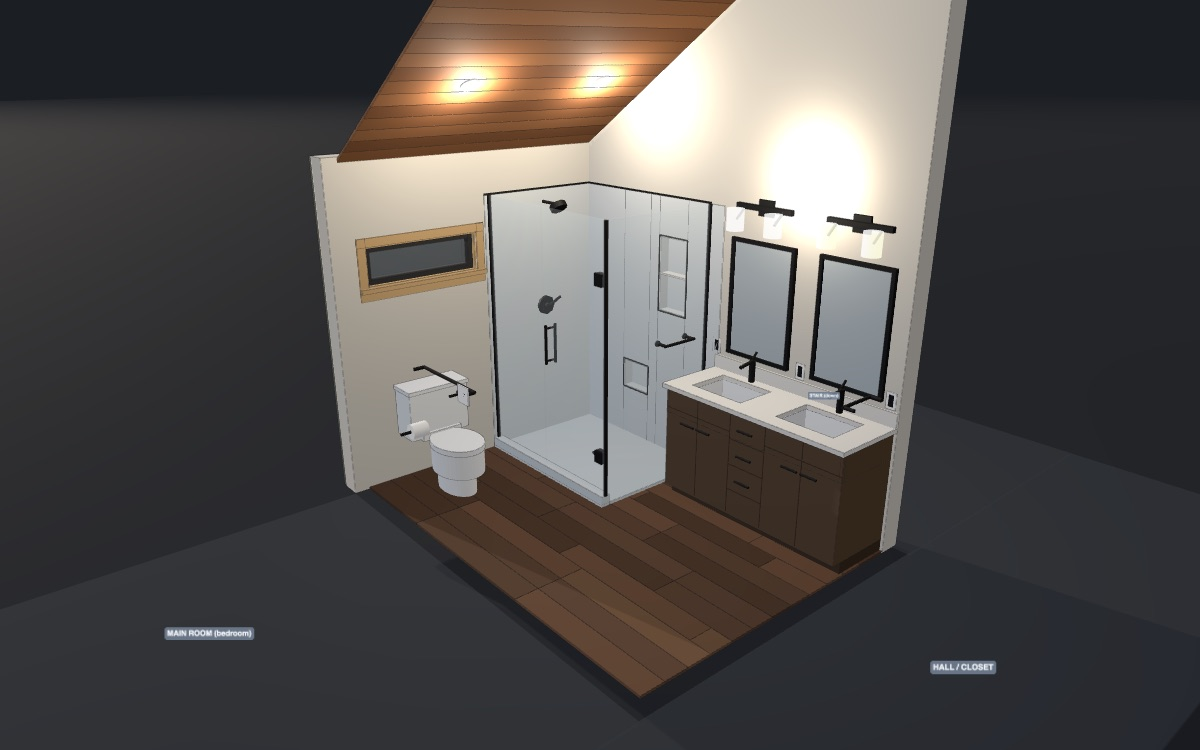
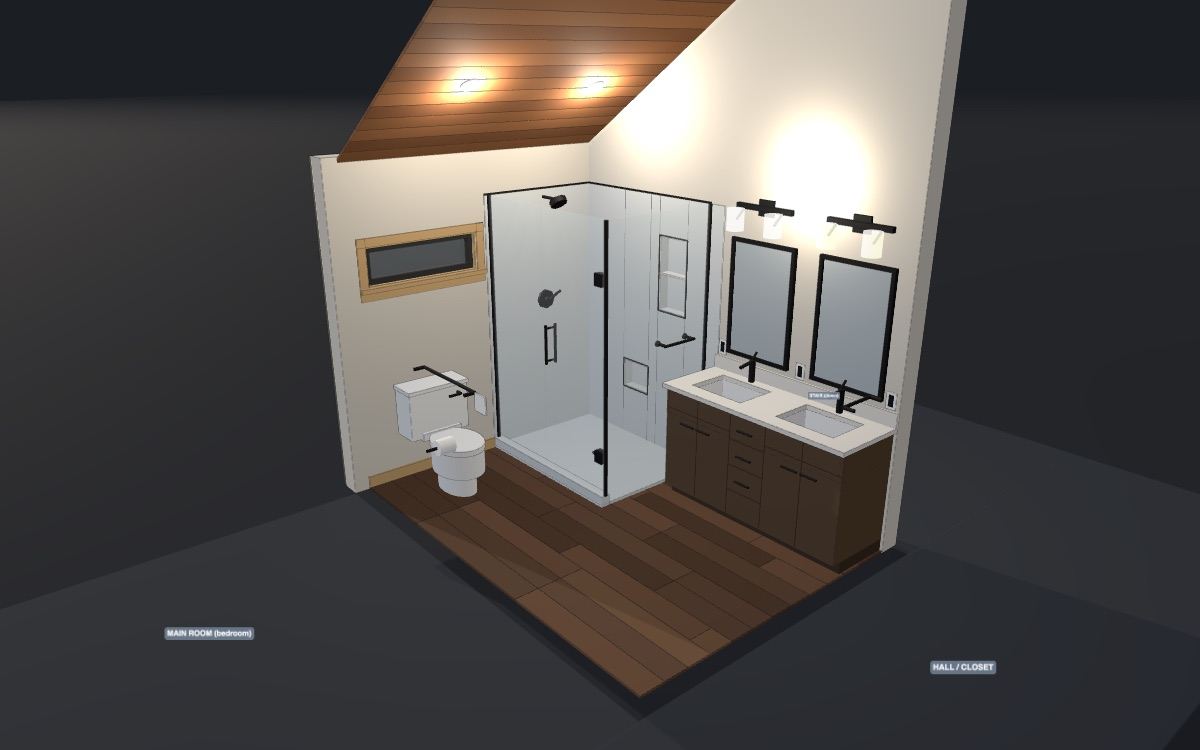
fix: shower tile back to 7'-0" in both baths with the 80" arm; main bath option 1 after the owner's design review

diff --git a/main-bath-option-1.html b/main-bath-option-1.html
@@ -61,7 +61,7 @@
   <a class="panel" id="home" href="https://tredfield.github.io/138-tahoma-cabin/" title="Back to the list of drawings">&larr; All drawings</a>
   <div class="panel" id="header">
     <h1>Main bath &mdash; Option 1: glass shower, north-wall plumbing</h1>
-    <div class="sub">Valve wall removed; the shower takes a 41 1/2" x 55 1/2" strip behind frameless glass: <b>39 5/8" tile to glass, 38 1/8" of flat floor inside the 3" curb</b>, 54 7/8" long, 2,092 sq in, the curb face 1" off window F's alder casing (owner's painted reveal, 2026-09-13). Moen UT3312 head and valve on the west wall, in the exterior 2x6 with freeze protection (owner decision, no chase); <b>valve 48" and arm 81 1/2" above the subfloor = 46 1/2" and 80" above the shower floor, tile to 7'-6", glass to 7'-0" &mdash; the same heights as the guest bath</b> (owner, 2026-09-13 review; the arm settled at 80" that evening &mdash; the owners are 5'6", guests under 6'4"). Shaving foot rest (centre bay) and shampoo niche (bay by the door) in the stair wall, a 5" cleaning slot to the vanity end, entry door on the south glass hinged at the corner post. Toilet CL 3" south of window F's CL for shower-door clearance (owner 2026-09-13, kept at the review); its drain stays in M01's joist bay. Two Kohler Essential mirrors with Artifacts sconces (owner selection; the Mirrors switch shows the one-wide-mirror alternative). Window F was field-corrected 2026-09-13: RO 45 1/2" from the stair-wall studs, 1 3/4" south of the A02 chain, which also settled the framed-2 3/8" question (the walls are where the drawing has them). <b>Plumbing rough-in</b> is one Show checkbox, <b>Plumbing</b>, read on the <b>Plumbing</b> view with Framing ticked and the finishes off: a crosshair on every penetration and a two-line tag, <b>bare-stud figure first, finished in brackets</b> &mdash; x off the bedroom-partition studs along the west wall, z off the west-wall studs along the stair wall &mdash; and heights off the subfloor with the above-finished-floor figure in brackets. Same convention as the guest bath drawing (owner 2026-09-13). Set the valve's plaster guard for a 7/8" finish (1/2" backer + 3/8" tile) and order the Moen M-CORE body to match the UT3312 trim; listed anti-scald / pressure-balance valve, 120&deg;F max (sheet note BATHROOM 4). A flange set on the subfloor finishes ~5/8" below the LVP: plan a spacer. Stub heights are on no sheet; the plumber's standard wins. Toilet and lav waste runs are UNCHANGED from M01; the 2" shower trap arm to M01's west-wall vent stack is ~55" developed with one 90&deg; turn, inside the 60" limit (verify). <b>For the framer, before sheathing or rough-in</b> (nothing is sheathed or plumbed upstairs yet, owner 2026-09-13): S3.5 makes the stair wall shear wall <b>W2</b> &mdash; sheathe it on the STAIR side, or have Pieruccioni approve the two niche openings before they are cut; put flat 2x blocking behind both glass wall channels (west wall at x -2..-1 for the full 7'-0", stair wall at z 61..62) and keep the M01 vent riser clear of that west-wall blocking with nail plates where it passes; do not bore the 5-stud hold-down posts at the stair wall's ends or the MST37 strap studs at the curb line for the shower supplies &mdash; bring them up through the west wall's bottom plate from the joist bay; tape the actual stair-wall stud bays before the niche boxes are framed (the drawing assumes studs at 6 3/4" + 16n). <b>Order window F tempered and moisture-rated</b>: its glass is about 62" above the shower floor and 3 1/2" from the curb. 138 Tahoma St E, Packwood &middot; the layout the owner kept of five options for the upper-floor <b>MAIN BATH</b> that remove the framed wall between shower and vanity. Room shell, window F, door 13 RO and the 60" vanity are as built / as drawn in <code>outputs/main-bath-3d.html</code>; everything else is this option's proposal. <b>Orange = assumed, not on any sheet, or flagged for the engineer / plumber.</b> <b>Design option for owner review &mdash; published for comparison. Not engineered &mdash; do not build from this.</b> Spec with clearance table: <code>outputs/main-bath-options/opt-1-glass-north-plumbing-3d-spec.md</code>. Drag to orbit &middot; scroll to zoom &middot; right-drag to pan. &middot; arrow keys (or WASD) walk, PageUp/PageDown change eye height, Shift runs.</div>
+    <div class="sub">Valve wall removed; the shower takes a 41 1/2" x 55 1/2" strip behind frameless glass: <b>39 5/8" tile to glass, 38 1/8" of flat floor inside the 3" curb</b>, 54 7/8" long, 2,092 sq in, the curb face 1" off window F's alder casing (owner's painted reveal, 2026-09-13). Moen UT3312 head and valve on the west wall, in the exterior 2x6 with freeze protection (owner decision, no chase); <b>valve 48" and arm 81 1/2" above the subfloor = 46 1/2" and 80" above the shower floor, tile and glass both to 7'-0", flush (the arm escutcheon sits 1 1/4" under the tile edge, so the plumber holds the drop-ear at 81 1/2" and no higher) &mdash; the same heights as the guest bath</b> (owner, 2026-09-13 review; the arm settled at 80" that evening &mdash; the owners are 5'6", guests under 6'4"). Shaving foot rest (centre bay) and shampoo niche (bay by the door) in the stair wall, a 5" cleaning slot to the vanity end, entry door on the south glass hinged at the corner post. Toilet CL 3" south of window F's CL for shower-door clearance (owner 2026-09-13, kept at the review); its drain stays in M01's joist bay. Two Kohler Essential mirrors with Artifacts sconces (owner selection; the Mirrors switch shows the one-wide-mirror alternative). Window F was field-corrected 2026-09-13: RO 45 1/2" from the stair-wall studs, 1 3/4" south of the A02 chain, which also settled the framed-2 3/8" question (the walls are where the drawing has them). <b>Plumbing rough-in</b> is one Show checkbox, <b>Plumbing</b>, read on the <b>Plumbing</b> view with Framing ticked and the finishes off: a crosshair on every penetration and a two-line tag, <b>bare-stud figure first, finished in brackets</b> &mdash; x off the bedroom-partition studs along the west wall, z off the west-wall studs along the stair wall &mdash; and heights off the subfloor with the above-finished-floor figure in brackets. Same convention as the guest bath drawing (owner 2026-09-13). Set the valve's plaster guard for a 7/8" finish (1/2" backer + 3/8" tile) and order the Moen M-CORE body to match the UT3312 trim; listed anti-scald / pressure-balance valve, 120&deg;F max (sheet note BATHROOM 4). A flange set on the subfloor finishes ~5/8" below the LVP: plan a spacer. Stub heights are on no sheet; the plumber's standard wins. Toilet and lav waste runs are UNCHANGED from M01; the 2" shower trap arm to M01's west-wall vent stack is ~55" developed with one 90&deg; turn, inside the 60" limit (verify). <b>For the framer, before sheathing or rough-in</b> (nothing is sheathed or plumbed upstairs yet, owner 2026-09-13): S3.5 makes the stair wall shear wall <b>W2</b> &mdash; sheathe it on the STAIR side, or have Pieruccioni approve the two niche openings before they are cut; put flat 2x blocking behind both glass wall channels (west wall at x -2..-1 for the full 7'-0", stair wall at z 61..62) and keep the M01 vent riser clear of that west-wall blocking with nail plates where it passes; do not bore the 5-stud hold-down posts at the stair wall's ends or the MST37 strap studs at the curb line for the shower supplies &mdash; bring them up through the west wall's bottom plate from the joist bay; tape the actual stair-wall stud bays before the niche boxes are framed (the drawing assumes studs at 6 3/4" + 16n). <b>Order window F tempered and moisture-rated</b>: its glass is about 62" above the shower floor and 3 1/2" from the curb. 138 Tahoma St E, Packwood &middot; the layout the owner kept of five options for the upper-floor <b>MAIN BATH</b> that remove the framed wall between shower and vanity. Room shell, window F, door 13 RO and the 60" vanity are as built / as drawn in <code>outputs/main-bath-3d.html</code>; everything else is this option's proposal. <b>Orange = assumed, not on any sheet, or flagged for the engineer / plumber.</b> <b>Design option for owner review &mdash; published for comparison. Not engineered &mdash; do not build from this.</b> Spec with clearance table: <code>outputs/main-bath-options/opt-1-glass-north-plumbing-3d-spec.md</code>. Drag to orbit &middot; scroll to zoom &middot; right-drag to pan. &middot; arrow keys (or WASD) walk, PageUp/PageDown change eye height, Shift runs.</div>
   </div>
   <div class="panel" id="legend">
     <h2>Legend</h2>
@@ -1579,7 +1579,7 @@ const D = {
   WIN_X1: -43.00, WIN_X2: -6.50, WIN_SILL: 61.5, WIN_HEAD: 73.5,        // window F RO 36 1/2" x 12", sill 61 1/2". FIELD 2026-09-13: 45 1/2" from the RO to the stair studs, i.e. 1 3/4" SOUTH of the A02 chain (45 1/2 + 36 1/2 + 6 = the 88" room)
   DOOR_Z1: 77.0, DOOR_Z2: 107.5, DOOR_HEAD: 84.5, DOOR_W: 30, DOOR_T: 1.375,   // door 13 RO
   // shower
-  SH_X1: -3.0, CURB_W: 3.0, GLASS_X: -1.5, GLASS_H: 84, TILE_H: 90,   // owner 2026-09-13, third pass: 1" painted reveal between the shower tile and window F's casing (casing north edge x -4.0), bought with 1" of shower. 39 5/8" tile to glass / 38 1/8" of flat floor. Review 2026-09-13: tile to 7'-6" and the trim heights match the guest bath (valve 48 / arm 83 1/2 above the subfloor); glass stays 7'-0"
+  SH_X1: -3.0, CURB_W: 3.0, GLASS_X: -1.5, GLASS_H: 84, TILE_H: 84,   // owner 2026-09-13, third pass: 1" painted reveal between the shower tile and window F's casing (casing north edge x -4.0), bought with 1" of shower. 39 5/8" tile to glass / 38 1/8" of flat floor. Review 2026-09-13: trim heights match the guest bath (valve 48 / arm 81 1/2 above the subfloor = 46 1/2" / 80" above the pan; owners 5'6"); tile and glass both 7'-0" flush (tile was 90 for an hour with an 82" arm; the arm escutcheon sits 1 1/4" under the tile edge, so the plumber holds the drop-ear at 81 1/2" and no higher)
   // vanity
   VAN_X1: 17.5, CTR_X1: 16.0, VAN_Z1: 66.75, VAN_Z2: 126.75, CTR_Y: 34.75, CTR_T: 1.25,   // 21" cabinet / 22 1/2" counter off the stair wall; 60" cabinet centered in the 61 1/2" zone
   SINK_Z: [81.75, 111.75], SINK_L: 18, SINK_W: 13, SINK_XC: 27.625, FAUCET_X: 36.125,
@@ -1973,7 +1973,7 @@ function clTag(text, x, y, z) { label(text, x, y, z, { layer: 'cl', size: 24, bg
 //      wall -- owner 2026-09-09 accepts the valve body + riser in the 2x6 stud cavity with freeze protection (no chase); east glass at z 61.5 leaves a 5" cleaning slot to the
 //      vanity end panel; foot rest (centre bay) + shampoo niche (bay by the door) in the stair wall (owner 2026-09-09) --
 {
-  const L = 'shower', x1 = D.SH_X1, x2 = D.WN_IN, z1 = D.EXT_IN, z2 = 61.5, gx = D.GLASS_X, H = D.TILE_H, GH = D.GLASS_H, VY = 48, AY = 81.5, zc = z1, zf = z1 + 0.4;   // no chase: zf = tile face of the west wall. H = tile height (7'-6"), GH = glass height (7'-0"); VY / AY = valve and arm CL above the subfloor = 46 1/2" / 80" above the pan, the guest bath's heights (owner 2026-09-13 review; arm 82" -> 80" the same evening, owners 5'6")
+  const L = 'shower', x1 = D.SH_X1, x2 = D.WN_IN, z1 = D.EXT_IN, z2 = 61.5, gx = D.GLASS_X, H = D.TILE_H, GH = D.GLASS_H, VY = 48, AY = 81.5, zc = z1, zf = z1 + 0.4;   // no chase: zf = tile face of the west wall. H = tile height (7'-0", flush with the glass -- owner 2026-09-13), GH = glass height (7'-0"); VY / AY = valve and arm CL above the subfloor = 46 1/2" / 80" above the pan, the guest bath's heights (owner 2026-09-13 review; arm 82" -> 80" the same evening, owners 5'6")
   const tf = x2 - 0.4, cx = (x1 + D.CURB_W + tf) / 2, cz = (zf + z2 - 0.19) / 2;   // tf = stair-wall tile face; (cx, cz) = centre of the FLAT floor inside the curb -- drain and trim both sit on it
   box(x1, x2, 0, 1.5, zc, z2, M.shTile, L);                                   // tiled floor (mud bed)
   box(x1, x1 + D.CURB_W, 0, 4, zc, z2, M.shTile, L);                           // 3" curb under the south glass
@@ -2009,7 +2009,7 @@ function clTag(text, x, y, z) { label(text, x, y, z, { layer: 'cl', size: 24, bg
   // west-wall tile face (z = zf): valve and head both on the pan's depth centreline cx (y 48 / y 81 1/2 above the subfloor = 46 1/2" / 80" above the pan, arm 7.5") -- Moen UT3312, facing east
   bar(V(cx, VY, zf), V(cx, VY, zf + 1.0), 3.2, M.black, L); bar(V(cx, VY, zf + 1.0), V(cx, VY, zf + 2.2), 0.9, M.black, L); bar(V(cx, VY, zf + 2.2), V(cx + 4.5, VY + 2.5, zf + 2.6), 0.45, M.black, L);   // valve + lever
   bar(V(cx, AY, zf), V(cx, AY, zf + 7.5), 0.5, M.black, L); bar(V(cx, AY, zf + 7.5), V(cx, AY - 1.4, zf + 8.6), 2.75, M.black, L);   // head (UT3312 single-function)
-  label('Moen UT3312 Belfield M-CORE 3-Series trim (owner 2026-09-09): head + valve on the WEST (exterior) wall.\nOwner accepts the valve body + riser in the 2x6 cavity: strap to the warm side of the studs, keep the 2" closed-cell\n+ batt behind, add a blow-out fitting for winterizing (UPC 312.6). Shower-only trim: a handheld would need a UT3313 transfer valve.\nValve 48" and arm 81 1/2" above the subfloor (46 1/2" / 80" above the pan), tile to 7\'-6" -- the guest bath\'s heights (owner 2026-09-13; arm settled at 80" for 5\'6" owners)', cx, 95, zf, FLAG);
+  label('Moen UT3312 Belfield M-CORE 3-Series trim (owner 2026-09-09): head + valve on the WEST (exterior) wall.\nOwner accepts the valve body + riser in the 2x6 cavity: strap to the warm side of the studs, keep the 2" closed-cell\n+ batt behind, add a blow-out fitting for winterizing (UPC 312.6). Shower-only trim: a handheld would need a UT3313 transfer valve.\nValve 48" and arm 81 1/2" above the subfloor (46 1/2" / 80" above the pan), tile 7\'-0" flush with the glass -- the guest bath\'s heights (owner 2026-09-13; arm settled at 80" for 5\'6" owners;\nescutcheon 1 1/4" under the tile edge -- hold the drop-ear at 81 1/2", no higher)', cx, 95, zf, FLAG);
   // through-glass 12" hand-towel bar on the room side of the east panel, x 18..30, y 46 -- aligned with the hall-wall bar (owner 2026-09-09);
   // this stretch of glass faces the vanity end panel across the 5" slot, so the towel hangs 2" off the cabinet below counter height
   for (const px of [18.5, 29.5]) { bar(V(px, 46, z2 - 0.7), V(px, 46, z2 + 3.0), 0.5, M.black, 'glass'); bar(V(px, 46, z2 - 0.7), V(px, 46, z2 - 0.2), 0.95, M.black, 'glass'); }
@@ -2173,7 +2173,7 @@ function clTag(text, x, y, z) { label(text, x, y, z, { layer: 'cl', size: 24, bg
 
 // ---- labels -----------------------------------------------------------------------------------------------------------
 label('OPTION 1 -- glass shower, frameless door on the south glass\nvalve wall removed; lav plumbing in the stair wall, shower valve + head on the window wall; toilet drain unchanged', -10, 76, 80);
-label('Shower 2026-09-13: 39 5/8" tile to glass, 38 1/8" of flat floor inside the curb, x 54 7/8" long\nmud-set tile; 2,092 sq in; well over the sheet notes\' 900 sq in / 30" x 30" rough pan; tile to 7\'-6", glass to 7\'-0"', 22, 96, 30, NOTE);
+label('Shower 2026-09-13: 39 5/8" tile to glass, 38 1/8" of flat floor inside the curb, x 54 7/8" long\nmud-set tile; 2,092 sq in; well over the sheet notes\' 900 sq in / 30" x 30" rough pan; tile and glass to 7\'-0"', 22, 96, 30, NOTE);
 label('1" painted reveal between the curb face and window F\'s casing (casing north edge x -4.0).\nOwner 2026-09-13, against the recommendation to either butt it or give it 2": bought with 1"\nof shower. Semi-gloss on that strip and caulk the tile edge -- it is at the splash line', -3, 30, 16, FLAG);
 label('Shower supplies: up through the west wall\'s bottom plate from the joist bay (1/2" PEX) --\nNOT through the stair-wall corner: S3.5 puts a 5-stud MSTC48B3 hold-down post there. Drain in bay 14 1/4..28 3/4', 34, 60, 46, FLAG);
 label('Door on the south glass, hinged at the corner post,\nopens out toward the room centre (26" clear)', 4.5, 60, 52, NOTE);
@@ -2185,7 +2185,7 @@ label('New wet-location can inside the shower -- not on E01\non the drain\'s z (
 label('Can at the toilet: inside the 3 ft shower zone -> damp trim\n(E01 keeps it on the window CL, 3" north of the toilet CL)', -24.75, yc(36) - 6, 36, NOTE);
 label('Broan 50 CFM (M01) -- code minimum for 73 sq ft under an 8\'-15\' ceiling;\nreview 2026-09-13 recommends 80-110 CFM, <= 1 sone, humidity-sensing, same spot', D.FAN[0], yc(D.FAN[1]) - 6, D.FAN[1], FLAG);
 label('GFCI', D.WN_IN - 3, 47, D.GFCI_Z, NOTE); label('2-gang switch', D.WS_IN + 3, 53, D.SWITCH_Z, NOTE);
-label('1x6 T&G ceiling, 8:12 dormer -- shower open to it above the 7\'-0" glass (tile to 7\'-6")', -4, yc(66) + 5, 66);
+label('1x6 T&G ceiling, 8:12 dormer -- shower open to it above 7\'-0" (tile and glass)', -4, yc(66) + 5, 66);
 // ---- dimensions (clearance table of the spec) ----
 dim(V(D.WS_IN, 2, D.WE_IN + 8), V(D.WN_IN, 2, D.WE_IN + 8), '7\'-3" clear', V(0, 0, 0), V(0, 1, 0));
 dim(V(D.WS_IN - 10, 2, D.EXT_IN), V(D.WS_IN - 10, 2, D.WE_IN), '10\'-1 1/2" clear', V(0, 0, 0), V(0, 1, 0));

diff --git a/guest-bath.html b/guest-bath.html
@@ -65,7 +65,7 @@
     + basis-of-design fixture schedule. The lower-floor <b>GUEST BATH</b> on the east (gridline A) wall between the guest-room-1
     closets (south) and the kitchen (north), entered from the hall: 5'-7 5/16" x 9'-8 1/2" clear under a flat 9'-0" ceiling (the kitchen wall is a <b>shear wall with 7/16" OSB on the bath face</b> &mdash; owner 2026-09-13 &mdash; so its finishes sit 7/16" further into the room than the bare-stud reading; tape the OSB). The
     plumbing wall is centered on gridline 2; a 60 1/2" alcove is formed by an 8 1/2" chase at the kitchen end, with a 4'-0" x 1'-0"
-    window (C) at 5'-0" in its east wall. <b>Owner changes 2026-09-10:</b> a tiled <b>shower with a frameless glass door</b> (<b>34 1/8" from the glass to the back tile</b> &mdash; owner 2026-09-13, was 32" &mdash; tile to 7'-6" with painted wall above,
+    window (C) at 5'-0" in its east wall. <b>Owner changes 2026-09-10:</b> a tiled <b>shower with a frameless glass door</b> (<b>34 1/8" from the glass to the back tile</b> &mdash; owner 2026-09-13, was 32" &mdash; tile to 7'-0" flush with the glass top, painted wall above (owner 2026-09-13; 7'-6" for an hour with the 82" arm),
     like the upstairs bath) replaces A02's tub; the single-sink vanity in the hall-wall corner grows to <b>48"</b>
     (A02: 42 1/2"); every fixture and accessory is <b>matte black</b>. The sink is <b>centered on the 48"</b> (owner decision). The <b>End wall</b>
     radio opens on the owner's default -- <b>no stub wall</b>, a full-width <b>66 9/16"</b> tiled shower (67" before the OSB was known) with custom glass wall to wall, templated after tile -- and can
@@ -86,7 +86,7 @@
     &mdash; one cripple bay, 12 3/4" x 10 1/4" x 3 1/2" clear, bottom 43", with 2" of closed-cell foam sprayed behind it before it is built; and the hinge-side door casing is a
     rip, since the RO sits ~1" from the partition's drywall &mdash; tape the built RO. <b>Fixtures match the main bath</b> (owner
     2026-09-10): Moen UT3312 shower trim, Moen 6402 faucet, Kohler Artifacts 72582 sconce over a Kohler K-26052 mirror.
-    <b>Plumbing rough-in</b> is one Show checkbox, <b>Plumbing</b>, read on the <b>Plumbing</b> view (an elevation of the single wall every stub lands on) with <b>Framing</b> ticked and the finishes off &mdash; the condition at rough-in. Every penetration carries a crosshair on its centerline and a two-line tag: the run <b>along the wall from the EAST (window) wall studs</b> (owner 2026-09-13 &mdash; the datum he marks from), then the height <b>off the subfloor</b> ("up") where one is given, or <b>off the plumbing-wall studs</b> ("out") for the two points in the floor. A running string under the wall steps 10 1/2 | 5 1/2 | 2 | 28 1/2 | 6 | 36 1/2 | 4 | 4 = 97", so the whole run lays out on one tape pull. <b>Stub heights for the lav drain, lav supplies and WC supply are deliberately not shown</b> (owner 2026-09-13): the plumber uses his own standard and the vanity conceals all three. <b>Everything on the drawing is off bare studs.</b> Finished-face equivalents: this wall finishes 1/2" proud of the studs and 7/8" in the shower (1/2" backer + 3/8" tile), the hall wall 1/2", the floor 0.6" LVP and 1 1/2" tile in the shower. So the WC flange's 12 1/2" off the studs is the <b>12" rough-in measured to finished</b> &mdash; marking 12" off bare studs would bind the tank; the lav drain's 24 1/2" is 24" finished and its 18 5/8" is 18" AFF; the shower valve's 48" off the subfloor is 46 1/2" above the shower floor, and the arm's 81 1/2" is <b>80" above the shower floor</b> (owner 2026-09-13: raised from 78 1/2" to 82" in the walkthrough, then settled at 80" on the head-height recommendation &mdash; the owners are 5'6" and can reach the swivel at 80", and the spray face at ~77-78" still clears a 6'3" guest); the shower tile stays at <b>7'-6"</b>, which leaves the escutcheon ~7 1/2" inside the tile field. Give the plumber one number: 80" above the finished shower floor. From M01's notes: listed anti-scald / pressure-balance valve, 120&deg;F max (BATHROOM 4); rigidly support the head fitting (1); flange on corrosion-resistant fasteners (6); closet ring to vent 6'-0" maximum (7), and the flange is 42" from the vent; 18 ga nail plates wherever pipe comes within 1" of a framing face (PLUMBING 1). A flange set on the subfloor finishes ~5/8" below the LVP, so plan a spacer. Set the valve's plaster guard for a <b>7/8" finish</b>, not the 1/2" gyp the rest of the wall gets, and order the Moen M-CORE valve body to match the UT3312 trim. The <b>vent is drawn orange</b> because M01 detail 4 is a 3/16" schematic (&plusmn;3"): hold it to the north side of the 2x6 cavity, since a 2X12 floor joist runs directly over this wall and the top-plate penetration has to miss it, and nothing can rise at the hall end where a 6X8 post fills the cavity. <b>Settled 2026-09-13:</b> the owner has confirmed the full-width no-chase shower with Elevate, and the hall wall is <b>already framed with door 6 at the kitchen corner</b> beside the beam &mdash; the built condition, which matches A02 and settles the S3.2 header conflict in favour of what is drawn here (exact rough opening still wants a tape). <b>Still open:</b> the shower valve sits behind <i>fixed</i> glass about 40" from the door opening, so the water cannot be turned on from outside the enclosure &mdash; the owner is discussing it before deciding.
+    <b>Plumbing rough-in</b> is one Show checkbox, <b>Plumbing</b>, read on the <b>Plumbing</b> view (an elevation of the single wall every stub lands on) with <b>Framing</b> ticked and the finishes off &mdash; the condition at rough-in. Every penetration carries a crosshair on its centerline and a two-line tag: the run <b>along the wall from the EAST (window) wall studs</b> (owner 2026-09-13 &mdash; the datum he marks from), then the height <b>off the subfloor</b> ("up") where one is given, or <b>off the plumbing-wall studs</b> ("out") for the two points in the floor. A running string under the wall steps 10 1/2 | 5 1/2 | 2 | 28 1/2 | 6 | 36 1/2 | 4 | 4 = 97", so the whole run lays out on one tape pull. <b>Stub heights for the lav drain, lav supplies and WC supply are deliberately not shown</b> (owner 2026-09-13): the plumber uses his own standard and the vanity conceals all three. <b>Everything on the drawing is off bare studs.</b> Finished-face equivalents: this wall finishes 1/2" proud of the studs and 7/8" in the shower (1/2" backer + 3/8" tile), the hall wall 1/2", the floor 0.6" LVP and 1 1/2" tile in the shower. So the WC flange's 12 1/2" off the studs is the <b>12" rough-in measured to finished</b> &mdash; marking 12" off bare studs would bind the tank; the lav drain's 24 1/2" is 24" finished and its 18 5/8" is 18" AFF; the shower valve's 48" off the subfloor is 46 1/2" above the shower floor, and the arm's 81 1/2" is <b>80" above the shower floor</b> (owner 2026-09-13: raised from 78 1/2" to 82" in the walkthrough, then settled at 80" on the head-height recommendation &mdash; the owners are 5'6" and can reach the swivel at 80", and the spray face at ~77-78" still clears a 6'3" guest); the shower tile returns to <b>7'-0"</b>, flush with the glass (owner, 2026-09-13, with the main bath), which leaves the escutcheon 1 1/4" under the tile edge -- hold the drop-ear at 81 1/2" and no higher. Give the plumber one number: 80" above the finished shower floor. From M01's notes: listed anti-scald / pressure-balance valve, 120&deg;F max (BATHROOM 4); rigidly support the head fitting (1); flange on corrosion-resistant fasteners (6); closet ring to vent 6'-0" maximum (7), and the flange is 42" from the vent; 18 ga nail plates wherever pipe comes within 1" of a framing face (PLUMBING 1). A flange set on the subfloor finishes ~5/8" below the LVP, so plan a spacer. Set the valve's plaster guard for a <b>7/8" finish</b>, not the 1/2" gyp the rest of the wall gets, and order the Moen M-CORE valve body to match the UT3312 trim. The <b>vent is drawn orange</b> because M01 detail 4 is a 3/16" schematic (&plusmn;3"): hold it to the north side of the 2x6 cavity, since a 2X12 floor joist runs directly over this wall and the top-plate penetration has to miss it, and nothing can rise at the hall end where a 6X8 post fills the cavity. <b>Settled 2026-09-13:</b> the owner has confirmed the full-width no-chase shower with Elevate, and the hall wall is <b>already framed with door 6 at the kitchen corner</b> beside the beam &mdash; the built condition, which matches A02 and settles the S3.2 header conflict in favour of what is drawn here (exact rough opening still wants a tape). <b>Still open:</b> the shower valve sits behind <i>fixed</i> glass about 40" from the door opening, so the water cannot be turned on from outside the enclosure &mdash; the owner is discussing it before deciding.
     The options, written up 2026-09-13 at the owner's request: <b>(1) keep the valve where it is</b> and aim the head at the drain so the first cold blast lands away from the door &mdash;
     the reviewer's recommendation, because <b>(2)</b> moving the valve to the kitchen end wall by the door means cutting that wall's shear OSB for the valve and arm (the engineer's
     call, and the owner finds it awkward), the east wall is the insulated exterior wall, and a door at the valve end would sweep the toilet; <b>(3)</b> a frameless <b>sliding</b> door
@@ -1593,7 +1593,7 @@ return { THREE, OrbitControls };
 const D = {
   // plumbing wall (south, gridline 2): 2x6 studs centered on x = 0, gyp both sides
   PW_S: -2.75, PW_N: 2.75, PW_OUT: -3.25, PW_IN: 3.25,
-  TILE_T: 0.875, TILE_H: 90,                            // 1/2" backer + 3/8" tile on the three shower walls, to 7'-6" (owner 2026-09-13: lifted from 84" when the arm went up; with the arm now at 80" the escutcheon sits ~7 1/2" inside the tile field)
+  TILE_T: 0.875, TILE_H: 84,                            // 1/2" backer + 3/8" tile on the three shower walls, to 7'-0" flush with the glass (owner 2026-09-13: 90 for an hour with the 82" arm; back to 84 with the 80" arm -- the escutcheon sits 1 1/4" under the tile edge)
   // hall wall (west): hall gyp / studs / bath gyp
   HW_OUT: 29.0, HW_S1: 29.5, HW_S2: 33.0, HW_IN: 33.5,
   // kitchen partition (north) -- a SHEAR WALL with the OSB on the BATH face (owner 2026-09-13): bath gyp / 7/16" OSB / studs / kitchen gyp.
@@ -1961,7 +1961,7 @@ box(D.PW_IN, D.KP_IN, D.CEIL, D.CEIL + D.GYP_T, D.HW_IN, D.EW_IN, M.gyp, 'ceilin
   bar(V(xf, D.ARM_Y, zc), V(xf + 7.5, D.ARM_Y, zc), 0.5, M.black, L);                  // shower arm
   bar(V(xf + 7.5, D.ARM_Y, zc), V(xf + 8.6, D.ARM_Y - 1.4, zc), 2.75, M.black, L);     // head (UT3312 single-function, as drawn upstairs)
   const th = D.TILE_H;
-  box(D.PW_N, D.PW_N + tt, yb, th, z1, ez, M.tile, T);                                  // 0931 tile: plumbing-wall end, pan to 7'-6"
+  box(D.PW_N, D.PW_N + tt, yb, th, z1, ez, M.tile, T);                                  // 0931 tile: plumbing-wall end, pan to 7'-0"
   box(D.PW_N, D.PW_N + tt + 0.1, yb, th + 0.5, z1 - 0.5, z1, M.black, T, false);       // black edge trim, leading edge
   box(D.PW_N, D.PW_N + tt + 0.1, th, th + 0.5, z1 - 0.5, ez, M.black, T, false);       // ... and top edge
   box(xf, xf + 0.6, 4, gh, gz - 0.5, gz + 0.5, M.black, G);                             // glass wall channel at the valve wall
@@ -2184,13 +2184,13 @@ tagNew('chaseOff', () => label('Full-width tiled shower, no chase (owner default
 label('Moen UT3312 Belfield M-CORE 3-Series shower trim, matte black -- same as the main bath (owner 2026-09-10); replaces the BoD UT2313EP kit\nValve 48" / arm 81 1/2" above SUBFLOOR = 46 1/2" / 80" above the shower floor (owner 2026-09-13: 80" suits 5\'6" owners and guests to 6\'3")\nOPEN (owner discussing): the valve sits behind the FIXED panel, ~40" from the door opening -- the water cannot be turned on from outside.\nThe kitchen wall is shear (no plumbing in it) and the east wall is the insulated exterior, so the choice is: keep it here and aim the head at the drain (recommended),\nor a sliding door that opens at the valve end -- see the caption. M01 note 4: listed anti-scald / pressure-balance valve, 120 F max', 10, 96, 132.5, FLAG);
 tagNew('chaseOn', () => label('Frameless glass: fixed panel at the valve end, 30" door hinged on the chase, swings out\n(a door at the valve end would sweep the toilet)', 33, 86, 118, NOTE));
 tagNew('chaseOff', () => label('Frameless glass wall to wall in a 66 9/16" opening: 35 7/8" fixed panel at the valve end, 29 1/8" door on glass-to-glass hinges,\nswings out and closes against the kitchen wall (a valve-end door would sweep the toilet); its free corner sweeps to within 2" of the kitchen wall north of z 103', 37, 86, 116, NOTE));
-label('Tile 0931 (OPCI) to 7\'-6" on three walls, painted wall above (owner 2026-09-13: lifted from 7\'-0" when the arm went up; the 80" arm sits 7 1/2" inside the field)', 40, 96, 148, NOTE);
+label('Tile 0931 (OPCI) to 7\'-0" on three walls, flush with the glass top, painted wall above\n(owner 2026-09-13: 7\'-6" for an hour with an 82" arm; the 80" arm\'s escutcheon sits 1 1/4" under the edge)', 40, 96, 148, NOTE);
 label('Single-sink vanity 48" x 24 3/4" (owner 2026-09-10; A02 42 1/2"), sink centered (owner decision): 12" drawers | 24" doors | 12" drawers\ncabinet species TBD in the BoD (drawn alder), quartz assumed; Moen 6402 faucet as upstairs; the E01 receptacle stays on the hall wall', 16, 42, 58);
 label('Kohler Artifacts 72582 two-light sconce over a Kohler K-26052 Essential 22" x 34" mirror -- same as the main bath (owner 2026-09-10)\nreplaces the BoD Bellevue EGBF23259 bar; the E01 circuit-2 box lands on the sink centerline, 24" off the hall wall', 8, 97, D.SINK_ZC, NOTE);
 label('Toilet -- American Standard (model not named)\ncenterline z 98: 16 1/2" to the vanity end panel and 16 1/2" to the CURB FACE -- the nearest finished obstruction, 1" inboard of the glass\n(17 1/2" to the glass centerline; UPC 402.5 / IRC R307.1 minimum is 15"). A02 drew it 6" further toward the shower', 22, 34, 98, FLAG);
 label('Recessed can (E01 ckt 2) stays; the M01 fan that sat 9" from it moved beside the shower glass (owner 2026-09-13)', 40, 103, 74, NOTE);
 label('Broan 50 CFM fan, moved beside the shower glass (owner 2026-09-13; M01 had it 9" from the can) -- tell the electrician', D.FAN[0], 103, D.FAN[1], FLAG);
-label('Wet-rated LED can over the shower (owner 2026-09-13; not on E01) -- the shower had no light of its own behind 7\'-6" tile and 80" glass', D.SHCAN[0], 103, D.SHCAN[1], FLAG);
+label('Wet-rated LED can over the shower (owner 2026-09-13; not on E01) -- the shower had no light of its own behind the tile and 80" glass', D.SHCAN[0], 103, D.SHCAN[1], FLAG);
 label('Recessed niche under window C (owner 2026-09-13): one cripple bay, 12 3/4" x 10 1/4" clear x 3 1/2" deep, bottom 43" (41 1/2" above the shower floor)\n2" closed-cell foam sprayed BEHIND it first; no cripple is cut (the exterior wall is shear W1); sloped tiled sill; the bay drawn is the assumed layout -- use the built bay nearest the shower centre', 40, 37, 147, FLAG);
 label('Hinge-side casing: the RO is ~1" from the kitchen partition\'s drywall (7/16" OSB + 1/2" gyp on the studs) -- a rip or a flush jamb, not a full 2 1/2" casing; tape the built RO', 66, 88, 34, FLAG);
 label('3-gang: vanity light / can / fan', D.SWITCH_X, 55, 36, NOTE);

diff --git a/index.html b/index.html
@@ -168,7 +168,7 @@
         settles which wall absorbed the framed 2 3/8" &mdash; and the framers' own drain mark turned out to be a deeper set-out than the sheets. The <b>toilet moved 3" south</b> with the window and then again for shower-door
         clearance, so it now sits 3" off the window centreline. Drawn with the two Kohler Essential mirrors and Artifacts sconces she picked; a Mirrors switch shows the one-wide-mirror alternative. Orange marks the assumptions;
         the Plan view carries every code clearance as a dimension, and <b>Plumbing</b> is a Show layer of its own &mdash; crosshair and two ordinates on every penetration, bare-stud figures first, same convention as the guest bath.
-        <b>Reviewed 2026-09-13</b>: every dimension re-derived and closing; valve and arm now at the guest bath's heights (46 1/2" and 80" above the pan) with tile to 7'-6"; a light switch drawn under the towel bar and a TP holder drawn behind the bowl fixed; S3.5 read &mdash; the stair wall is shear wall W2, so the niches need the OSB on the stair side or the engineer's nod.</p>
+        <b>Reviewed 2026-09-13</b>: every dimension re-derived and closing; valve and arm now at the guest bath's heights (46 1/2" and 80" above the pan) with tile and glass both at 7'-0"; a light switch drawn under the towel bar and a TP holder drawn behind the bowl fixed; S3.5 read &mdash; the stair wall is shear wall W2, so the niches need the OSB on the stair side or the engineer's nod.</p>
         <span class="meta">Updated 2026-09-13 &middot; 9 camera views &middot; layout option, not yet chosen &middot; not engineered</span>
         <div class="chips">
           <a class="open" href="main-bath-option-1.html">Open drawing</a>
@@ -211,7 +211,7 @@
         <p>The downstairs bath between the guest-room closets and the kitchen, as the owner has revised it (2026-09-10 to 09-13): a
         full-width tiled shower with a frameless glass door where the permit set drew a tub &mdash; 34 1/8" from the glass to the back
         tile, 31 1/8" of flat floor inside a 4" curb, 66 9/16" tile to tile once the kitchen wall's shear OSB is counted; its 4'-0" x
-        1'-0" window at 5'-0" with a recessed niche below it; tile to 7'-6"; a 48" single-sink vanity in the hall-wall corner with the
+        1'-0" window at 5'-0" with a recessed niche below it; tile to 7'-0" flush with the glass; a 48" single-sink vanity in the hall-wall corner with the
         sink centered; the toilet 16 1/2" to the vanity and 16 1/2" to the shower curb; a wet-rated can over the shower and the fan
         beside the glass; matte-black fixtures shared with the main bath (Moen UT3312 trim, Moen 6402 faucet, Kohler Artifacts sconce
         over a Kohler Essential mirror). A Plumbing layer marks every drain, supply, valve and vent centerline off the east-wall studs
